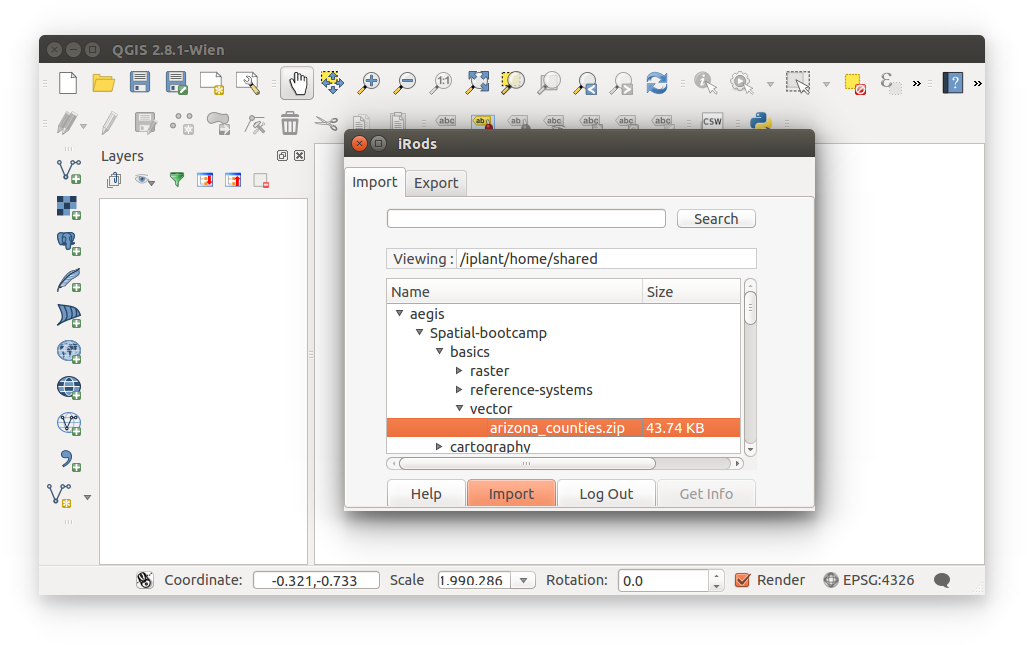
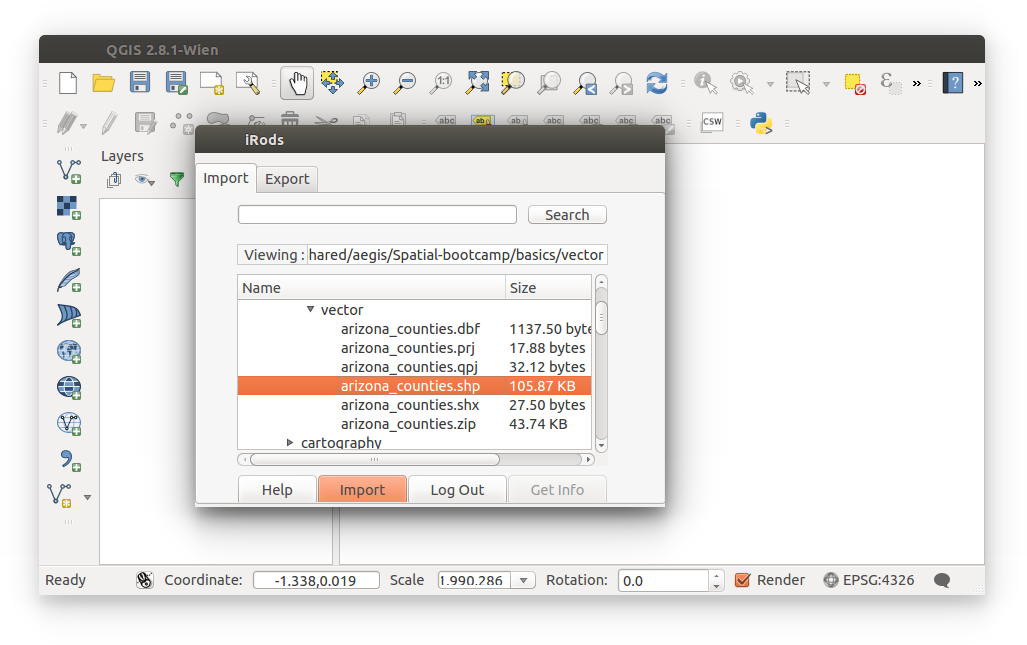
updated raster exercise

diff --git a/_posts/2000-12-30-vector.md b/_posts/2000-12-30-vector.md
@@ -88,15 +88,15 @@ This next exercise will explain the basics of importing, inspecting, and styling
 <ol>
 <li>iRods is accessed through the <strong>iRods</strong> tool icon, or <em>Menu Bar > Plugins > iRods</em>. If the iRods plugin does not display then you either don't have it installed, or it has been disabled.<br><br>Once opened, enter your <strong>iPlant username and password</strong>:<br><br><img data-featherlight="{{BASE_PATH}}{{ASSET_PATH}}/images/vector-irods-1.png" src="{{BASE_PATH}}{{ASSET_PATH}}/images/vector-irods-1.png" alt="Spatial Data Bootcamp: QGIS - iRods"/><br><br></li>
 <li>Navigate to <code>/iplant/home/shared/aegis/Spatial-bootcamp/basics/vector</code></li> 
-<li>Within the <code>/vector/</code> directory, click (to highlight) <strong>arizona_counties.shp</strong>, then <strong>import</strong>.<br><br><img data-featherlight="{{BASE_PATH}}{{ASSET_PATH}}/images/qgis-irods-2.png" src="{{BASE_PATH}}{{ASSET_PATH}}/images/qgis-irods-2.png" alt="Spatial Data Bootcamp: QGIS - import vector data through iRods"/></li>
+<li>Within the <code>/vector/</code> directory, click (to highlight) <strong>arizona_counties.shp</strong>, then <strong>import</strong>.<br><br>Notice the other files also named <b>arizona_counties</b>, but have different file extensions (not .shp). These are the files that hold information about the shapefile, but we do not import these into QGIS. QGIS will read them through the .shp. So, only import .shp.<br><br><img data-featherlight="{{BASE_PATH}}{{ASSET_PATH}}/images/qgis-irods-2.png" src="{{BASE_PATH}}{{ASSET_PATH}}/images/qgis-irods-2.png" alt="Spatial Data Bootcamp: QGIS - import vector data through iRods"/></li>
 <br><br>
 </ol>
 </li>
 
-<li>Download zip:<br>&nbsp;&nbsp;&nbsp;<a href="http://de.iplantcollaborative.org/dl/d/31085E1F-F3E3-4E30-8848-FC14011E6015/arizona_counties.zip">arizona_counties.zip</a><br><br>
+<li>The non-iRods method: download, unzip, and import <b>arizona_counties.shp</b>:<br><br>&nbsp;&nbsp;&nbsp;Click to download:<br>&nbsp;&nbsp;&nbsp;<a href="http://de.iplantcollaborative.org/dl/d/31085E1F-F3E3-4E30-8848-FC14011E6015/arizona_counties.zip">arizona_counties.zip</a><br><br>
 <ol>
-<li> For non-iRods access, download, unpack ,and import the Arizona Counties shapefile by clicking the <strong>Add Vector Layer</strong> <img src="{{BASE_PATH}}{{ASSET_PATH}}/images/add-vector.png"/> button in the Toolbar, or by navigating through <em>Menu Bar > Add Layer > Add Vector Layer.</em><br><br>Subsequent exercises will refer to adding data through the buttons in the Toolbar.<br><br></li>
-<li> Click <strong>Browse</strong> to locate the shapefile: arizona_counties.shp<br><br><strong>Reminder:</strong> A shapefile contains 5 files, however only open the &#42;.shp extension in QGIS (or other GIS applications)<br><br><img data-featherlight="{{BASE_PATH}}{{ASSET_PATH}}/images/qgis-intro-1.png" src="{{BASE_PATH}}{{ASSET_PATH}}/images/qgis-intro-1.png" alt="QGIS - Add vector layer"/></li>
+<li>Import the Arizona Counties shapefile by clicking the <strong>Add Vector Layer</strong> <img src="{{BASE_PATH}}{{ASSET_PATH}}/images/add-vector.png"/> button in the Toolbar, or by navigating through <em>Menu Bar > Add Layer > Add Vector Layer.</em><br><br>Subsequent exercises will refer to adding data through the buttons in the Toolbar.<br><br></li>
+<li> Click <strong>Browse</strong> to locate the shapefile: <b>arizona_counties.shp</b><br><br><strong>Reminder:</strong> A shapefile contains 5 files, however only open the &#42;.shp extension in QGIS (or other GIS applications)<br><br><img data-featherlight="{{BASE_PATH}}{{ASSET_PATH}}/images/qgis-intro-1.png" src="{{BASE_PATH}}{{ASSET_PATH}}/images/qgis-intro-1.png" alt="QGIS - Add vector layer"/></li>
 <li> We are now visualizing counties in Arizona.<br><br>
 <strong>Think about it:</strong> We are not actually visualizing the single boundary of Arizona, but the boundaries of its counties which complete the boundary of Arizona.<br><br><img data-featherlight="{{BASE_PATH}}{{ASSET_PATH}}/images/qgis-intro-2.png" src="{{BASE_PATH}}{{ASSET_PATH}}/images/qgis-intro-2.png" alt="Spatial Data Bootcamp: QGIS - viewing vector data"/></li>
 </ol>
@@ -126,7 +126,7 @@ You can change the symbolism of the data by clicking on the dropdown list (defau
 <li>
 Once in the <em>Categorized</em> menu, configure as follows:<br><ul><li>Column: NAME_2</li><li>Color ramp: Random colors</li><li>Click <strong>Classify</strong> to add the data classifications from the column <strong>NAME_2</strong>.</li></ul><br>If you remember from looking at our Arizona counties attributes, you'll know that <strong>NAME_2</strong> represents the county name of each county.<br><br>Click <strong>Apply</strong> then <strong>OK</strong> to update changes.<br><br><img data-featherlight="{{BASE_PATH}}{{ASSET_PATH}}/images/qgis-intro-8.png" src="{{BASE_PATH}}{{ASSET_PATH}}/images/qgis-intro-8.png" alt="Spatial Data Bootcamp: QGIS - Arizona county categorized by county name"/><br><br>
 </li>
-<li>Your map should now look similar to the one below; categorized by county name (NAME_2) with random colors.<br><br><img data-featherlight="{{BASE_PATH}}{{ASSET_PATH}}/images/qgis-intro-9.png" src="{{BASE_PATH}}{{ASSET_PATH}}/images/qgis-intro-9.png" alt="Spatial Data Bootcamp: QGIS - symbolized by county name"/><br><br>Close your worspace- this will prompt to save your existing workspace; save if you must, else No. 
+<li>Your map should now look similar to the one below; categorized by county name (NAME_2) with random colors.<br><br><img data-featherlight="{{BASE_PATH}}{{ASSET_PATH}}/images/qgis-intro-9.png" src="{{BASE_PATH}}{{ASSET_PATH}}/images/qgis-intro-9.png" alt="Spatial Data Bootcamp: QGIS - symbolized by county name"/><br><br>You have now been introduced to <b>shapefiles</b>.<br><br>Refer to this exercise in the event that you have trouble importing shapefiles into QGIS.<br><br>Close your worspace- this will prompt to save your existing workspace; save if you must, else No. 
 </li>
 </ol>
 </ol>

diff --git a/_posts/2000-12-29-raster.md b/_posts/2000-12-29-raster.md
@@ -104,13 +104,13 @@ This exercise will introduce visualizing raster data in QGIS with common and sim
 <ol>
 <li>Import raster data
 <ol>
-<li>Open QGIS and load the Oregon GTOPO30 DEM through iRods access: <br>&nbsp;&nbsp;&nbsp;<code>/iplant/home/shared/aegis/Spatial-bootcamp/basics/raster</code><br><br>Or download here and <strong>Add Raster Layer</strong> <img src="{{BASE_PATH}}{{ASSET_PATH}}/images/add-raster.png"/>: <a href="http://de.iplantcollaborative.org/dl/d/A813B989-EF8E-47B4-88F3-1B1FC9D7D6BC/gt30w140n90_oregon.tif">Oregon GTOPO30 DEM</a>.<br><br>Your workspace should look like the image below:<br><br><img data-featherlight="{{BASE_PATH}}{{ASSET_PATH}}/images/raster-1.png" src="{{BASE_PATH}}{{ASSET_PATH}}/images/raster-1.png" alt="Spatial Data Bootcamp: QGIS - open raster layer"/>
+<li>Open QGIS and load the Oregon GTOPO30 DEM through iRods access: <br>&nbsp;&nbsp;&nbsp;<code>/iplant/home/shared/aegis/Spatial-bootcamp/basics/raster/gt30w140n90_oregon.tif</code><br><br>Or download here and <strong>Add Raster Layer</strong> <img src="{{BASE_PATH}}{{ASSET_PATH}}/images/add-raster.png"/>:<br> <a href="http://de.iplantcollaborative.org/dl/d/A813B989-EF8E-47B4-88F3-1B1FC9D7D6BC/gt30w140n90_oregon.tif">gt30w140n90_oregon.tif</a>.<br><br>Your workspace should look like the image below.<br><br>We're viewing a Digital Elevation Model (DEM). This represents the elevation of the given area. This GeoTIFF assigns the elevation to its cells, or pixels. So, we're actually visualizing cells with their associated values (elevation).<br><br><img data-featherlight="{{BASE_PATH}}{{ASSET_PATH}}/images/raster-1.png" src="{{BASE_PATH}}{{ASSET_PATH}}/images/raster-1.png" alt="Spatial Data Bootcamp: QGIS - open raster layer"/>
 </li>
 </ol>
 </li>
 <li>Raster histogram
 <ol>
-<li>Open the raster histogram: <em>Right-click layer (layer list) > Properties > Histogram</em><br><br><img data-featherlight="{{BASE_PATH}}{{ASSET_PATH}}/images/raster-2.png" src="{{BASE_PATH}}{{ASSET_PATH}}/images/raster-2.png" alt="Spatial Data Bootcamp: QGIS - raster histogram"/>
+<li>Open the raster histogram: <em>Right-click layer (layer list) > Properties > Histogram</em><br><br>The histogram is a graphical representation of the raster value data.<br><br>Close the Layer Properties once you're finished viewing the histogram.<br><br><img data-featherlight="{{BASE_PATH}}{{ASSET_PATH}}/images/raster-2.png" src="{{BASE_PATH}}{{ASSET_PATH}}/images/raster-2.png" alt="Spatial Data Bootcamp: QGIS - raster histogram"/>
 </li>
 </ol>
 </li>
@@ -119,12 +119,14 @@ This exercise will introduce visualizing raster data in QGIS with common and sim
 <li>Zoom in close enough to see the actual pixels of the raster.<br><br>Do you see a difference between a raster and a vector?<br><br>Remember, vector data are <em>points, or points connected by lines</em>, while raster data are <em>stored in cells or arrays</em>.<br><br>You can use the <strong>Identify Features</strong> <img src="{{BASE_PATH}}{{ASSET_PATH}}/images/qgis-identify.png"/> tool to click on data visualized on the map canvas to view its attributes.<br><br><img src="{{BASE_PATH}}{{ASSET_PATH}}/images/raster-3.png" src="{{BASE_PATH}}{{ASSET_PATH}}/images/raster-3.png" alt="Spatial Data Bootcamp: QGIS raster data"/></li>
 </ol>
 </li>
-<li>Style
+<li>Style<br><br>
+Styling data is the fun part. Sometimes it's good practice to add color to your data to better understand and visualize.<br><br>
 <ol>
 <li>Open the raster <strong>Properties</strong>: <em>Right-click layer (layer list) > Proper > Style</em><br><br>Configure your settings as follow, within the <strong>Band Rendering</strong> section:<br><ul><li>Render type: Singleband pseudocolor</li><li>Load actual min/max values: <ul><li>Load min/max values: Min/Max</li><li>Accuracy: Actual (slower)</li><li>Click LOAD</li></ul></li><li>Generate new color map: (select color, invert if necessary)</li><li>Click CLASSIFY</li><li>Click APPLY and OK to save changed and return to the map</li></ul><br><br><img data-featherlight="{{BASE_PATH}}{{ASSET_PATH}}/images/raster-4.png" src="{{BASE_PATH}}{{ASSET_PATH}}/images/raster-4.png" alt="Spatial Data Bootcamp: QGIS - style raster"/><br><br>You should now be visualizing your DEM with color.<br><br>Keep in mind, the legend below (displayed below the layer name in the layer list) reads: values 1 to 827.74 = green, 827.75 to 1654.49 = light green, and so on. Highest points (cells) of elevation are viualized in red.<br><br>Changing the number of classifications, or increasing the number of range of values will visualize the raster differently.<br><br><img data-featherlight="{{BASE_PATH}}{{ASSET_PATH}}/images/raster-5.png" src="{{BASE_PATH}}{{ASSET_PATH}}/images/raster-5.png" alt="Spatial Data Bootcamp: QGIS - visualize raster"/></li>
 </ol>
+<br><br>You've now been introduced to raster data and styling in QGIS.<br><br>
+You do not need to save this project.<br><br>
 </li>
-<li>You've now been introduced to raster data in QGIS. No need to save this project or data. Move on to the next lesson</li>
 </ol>
 
 <hr>
